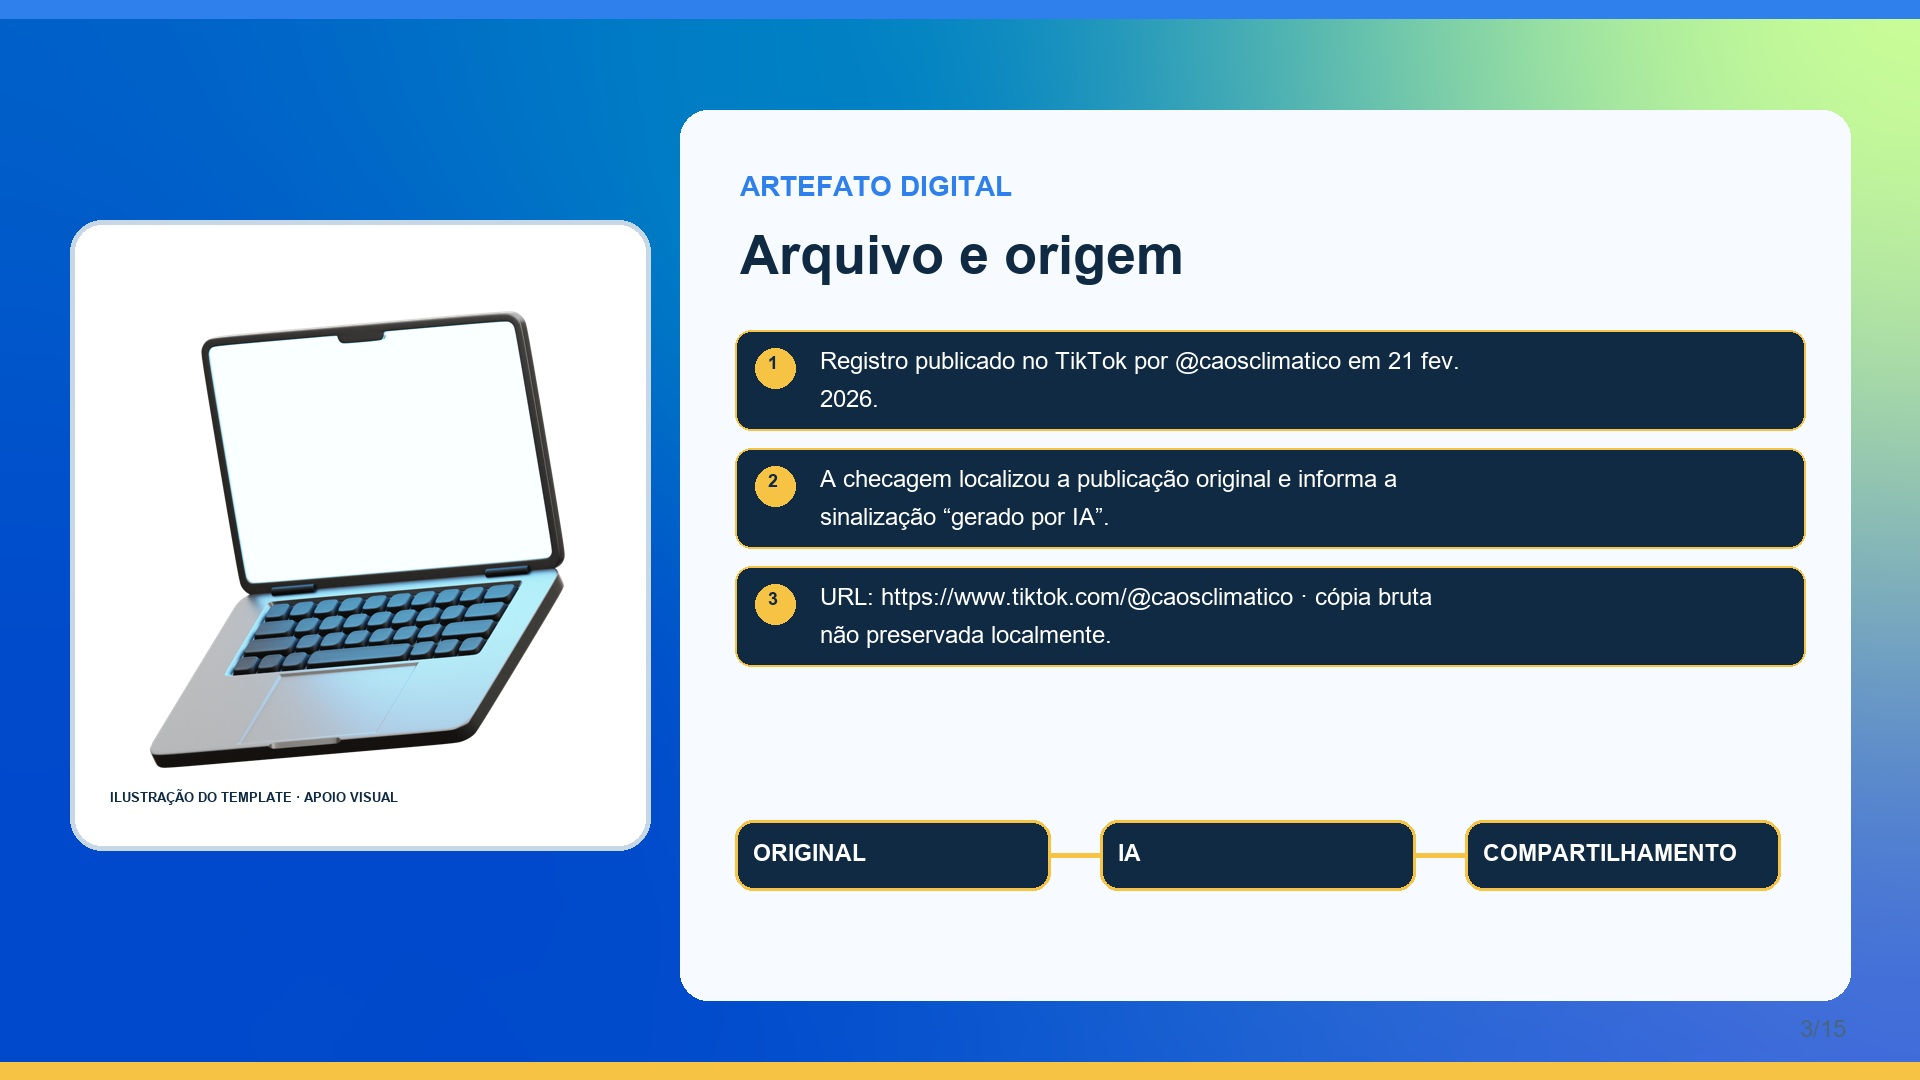
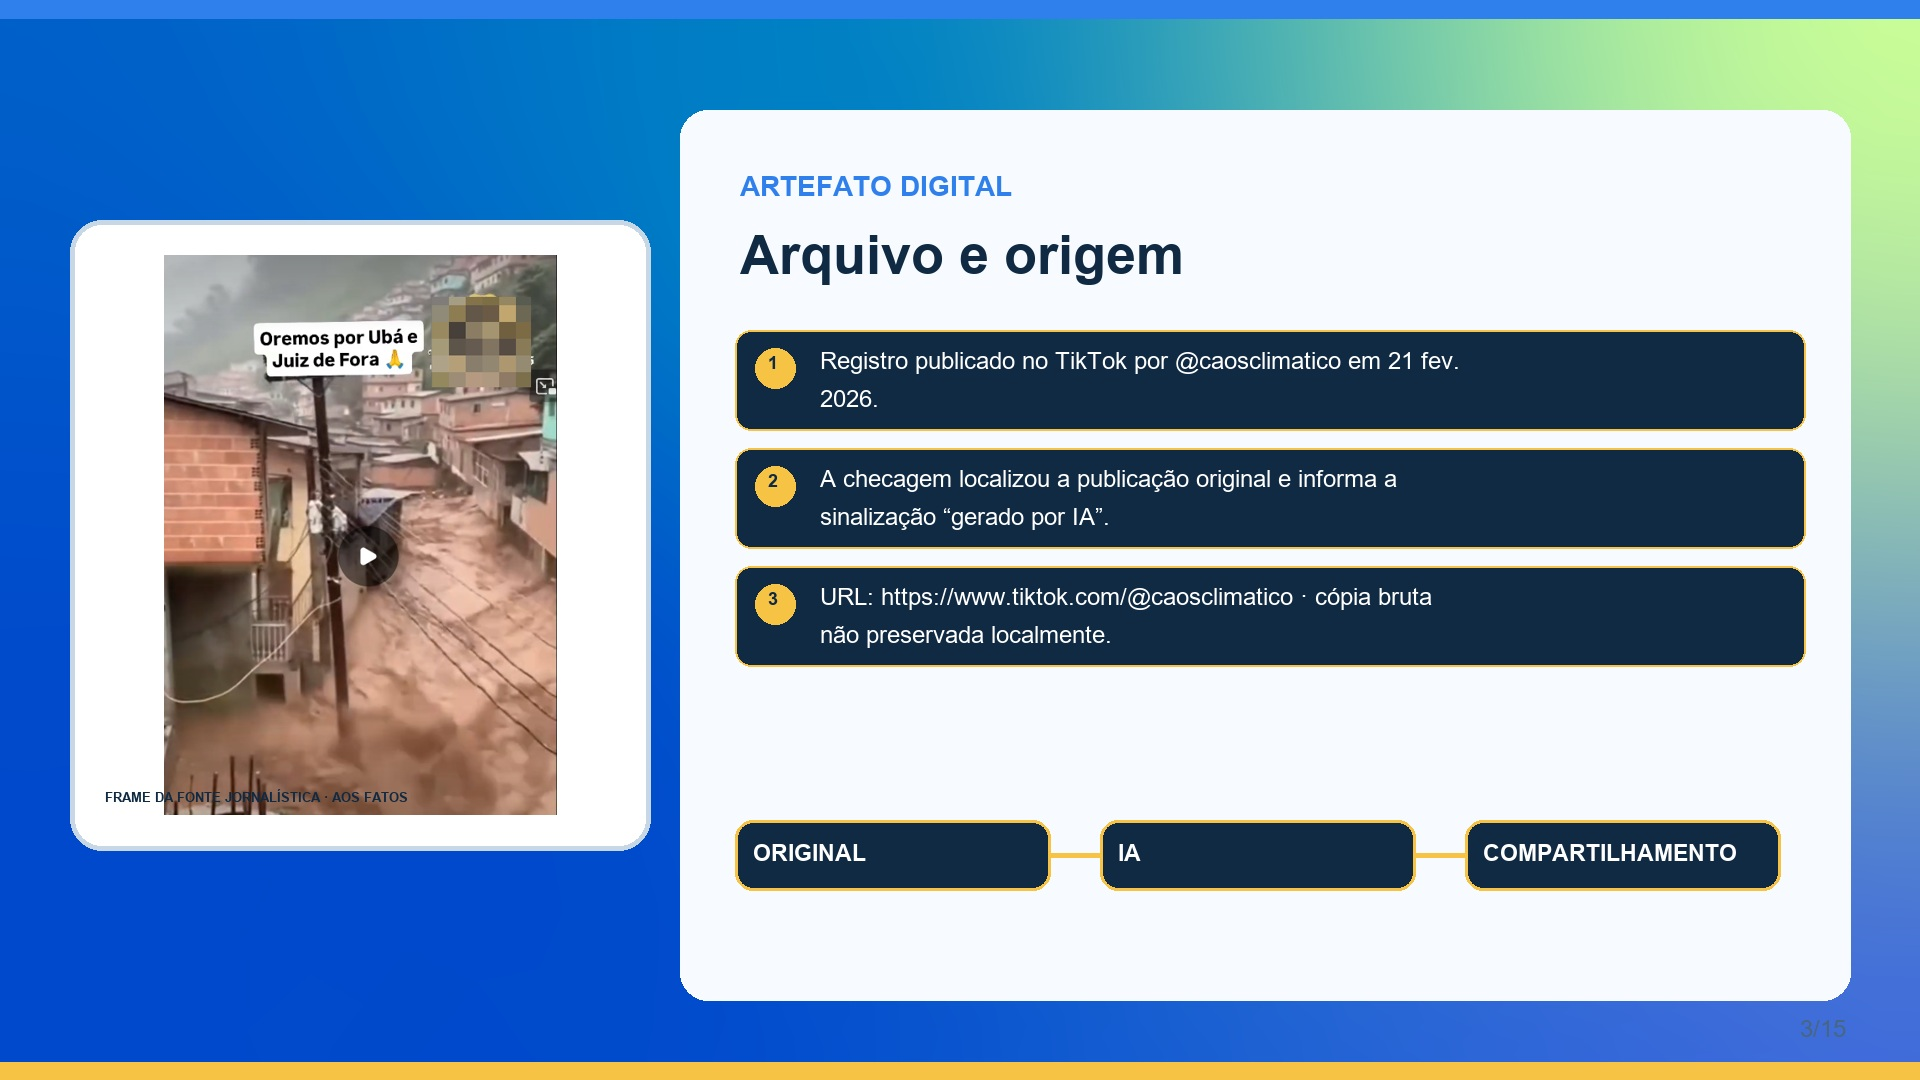
feat: incluir frames jornalisticos nos slides de evidencia

Changed region(s): [[0.0625, 0.2139, 0.3125, 0.7639]]

diff --git a/scripts/generate_case_jpgs.py b/scripts/generate_case_jpgs.py
@@ -3,6 +3,7 @@ from PIL import Image, ImageDraw, ImageFont
 import textwrap
 
 R=Path(__file__).parents[1]; A=R/'assets'; O=R/'slides'; O.mkdir(exist_ok=True)
+E=R/'evidence'/'frames'
 font_path='C:/Windows/Fonts/arial.ttf'; bold_path='C:/Windows/Fonts/arialbd.ttf'
 def ft(n,b=False): return ImageFont.truetype(bold_path if b else font_path,n)
 S=[
@@ -35,10 +36,16 @@ for i,(section,title,paras,asset) in enumerate(S,1):
     im=Image.open(A/'template-capa-002.png').convert('RGB').resize((1920,1080)); d=ImageDraw.Draw(im)
     d.rectangle((0,0,1920,18),fill=(47,128,237)); d.rectangle((0,1062,1920,1080),fill=(246,195,68))
     d.rounded_rectangle((680,110,1850,1000),radius=28,fill=(247,251,255)); d.rounded_rectangle((70,220,650,850),radius=32,fill='white',outline=(199,215,229),width=5)
-    a=Image.open(A/asset).convert('RGBA'); a.thumbnail((520,560)); im.paste(a,(360-a.width//2,535-a.height//2),a)
+    evidence={3:'frame-contexto.png',4:'frame-marca-dagua.png',6:'frame-perspectiva.png',14:'frame-fisica.png'}.get(i)
+    if evidence and (E/evidence).exists():
+        a=Image.open(E/evidence).convert('RGB'); a.thumbnail((520,560)); im.paste(a,(360-a.width//2,535-a.height//2))
+        d.text((105,790),'FRAME DA FONTE JORNALÍSTICA · AOS FATOS',font=ft(13,True),fill=(16,42,67))
+    else:
+        a=Image.open(A/asset).convert('RGBA'); a.thumbnail((520,560)); im.paste(a,(360-a.width//2,535-a.height//2),a)
+        d.text((110,790),'ILUSTRAÇÃO DO TEMPLATE · APOIO VISUAL',font=ft(13,True),fill=(16,42,67))
     d.text((740,170),section,font=ft(28,True),fill=(47,128,237)); d.text((740,225),title,font=ft(54,True),fill=(16,42,67)); y=330
     for n,p in enumerate(paras,1):
         lines=textwrap.wrap(p,58); h=max(82,38*len(lines)+24); d.rounded_rectangle((735,y,1805,y+h),radius=16,fill=(16,42,67),outline=(246,195,68),width=2); d.ellipse((755,y+18,795,y+58),fill=(246,195,68)); d.text((768,y+22),str(n),font=ft(18,True),fill=(16,42,67))
         for j,line in enumerate(lines): d.text((820,y+17+j*38),line,font=ft(24),fill='white')
         y+=h+18
-    draw_diagram(d,i); d.text((110,790),'ILUSTRAÇÃO DO TEMPLATE · APOIO VISUAL',font=ft(13,True),fill=(16,42,67)); d.text((1800,1015),f'{i}/15',font=ft(24),fill=(72,102,129)); im.save(O/f'slide-{i:02d}.jpg',quality=94,optimize=True)
+    draw_diagram(d,i); d.text((1800,1015),f'{i}/15',font=ft(24),fill=(72,102,129)); im.save(O/f'slide-{i:02d}.jpg',quality=94,optimize=True)

diff --git a/docs/frames-e-creditos.md b/docs/frames-e-creditos.md
@@ -1,0 +1,14 @@
+# Frames das referências
+
+Os slides 3, 4, 6 e 14 incluem frames derivados das imagens publicadas na reportagem do Aos Fatos. Eles aparecem nos espaços de evidência para que o ouvinte possa analisar visualmente os fatos descritos.
+
+Fonte: AOS FATOS. *Vídeos gerados por IA circulam como se mostrassem consequências das chuvas em MG*. 27 fev. 2026. Disponível em: <https://www.aosfatos.org/noticias/videos-gerados-ia-circulam-como-consequencias-chuvas-mg/>. Acesso em: 17 set. 2026.
+
+Arquivos locais: `evidence/frames/`. Os arquivos são reproduções para finalidade educacional e permanecem acompanhados de atribuição e link da fonte. A autorização comercial não é presumida; para publicação fora do contexto escolar, solicitar permissão ao titular.
+
+## Critério de correspondência
+
+- `frame-contexto.png`: aparência geral do conteúdo atribuído à enchente;
+- `frame-marca-dagua.png`: marca-d’água borrada;
+- `frame-perspectiva.png`: deformações em estruturas e perspectiva;
+- `frame-fisica.png`: comportamento incompatível da água.

diff --git a/docs/prompt-e-instrucoes.md b/docs/prompt-e-instrucoes.md
@@ -23,3 +23,7 @@ Criar uma apresentação HTML/JPG de Nível 3 da Maratona Tech sobre um caso bra
 ## Regras visuais
 
 Canvas 1920×1080; título 54px; texto 24px; entrelinha 38px; rótulos 28px; fundo e ilustrações do template; cartões de alto contraste; no máximo quatro blocos de conteúdo por slide.
+
+## Nova exigência de evidência visual
+
+Para cada afirmação factual sobre o artefato, incluir no espaço de evidência o frame correspondente, com legenda curta, fonte, data e URL. Não usar ilustração do template como se fosse prova. Os frames devem ser preservados em `evidence/frames/`, possuir nome semântico e ser associados a um achado observável: contexto, marca-d’água, perspectiva ou física. Informar quando a imagem é reprodução educacional e não presumir licença comercial.
